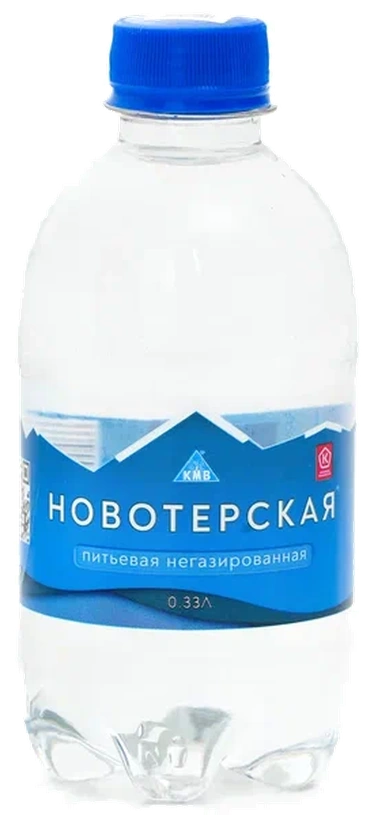
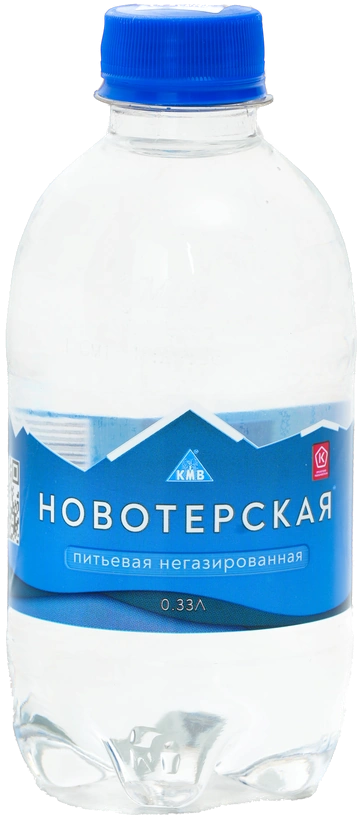
Improve catalog bottle cutout

diff --git a/catalog.html b/catalog.html
@@ -581,7 +581,7 @@
                 <div class="product-photo">
                   <picture class="pshot is-on">
                     <source srcset="assets/products/pityevaya-pet-033.avif" type="image/avif" />
-                    <img src="assets/products/pityevaya-pet-033.webp" width="374" height="815" loading="lazy" alt="Новотерская Питьевая 0,33 л, ПЭТ" data-alt-ru="Новотерская Питьевая 0,33 л, ПЭТ" data-alt-en="Novoterskaya Drinking Water 0.33 L, PET bottle" />
+                    <img src="assets/products/pityevaya-pet-033.webp" width="363" height="815" loading="lazy" alt="Новотерская Питьевая 0,33 л, ПЭТ" data-alt-ru="Новотерская Питьевая 0,33 л, ПЭТ" data-alt-en="Novoterskaya Drinking Water 0.33 L, PET bottle" />
                   </picture>
                   <picture class="pshot">
                     <source srcset="assets/products/pityevaya-pet-033-2.avif" type="image/avif" />
